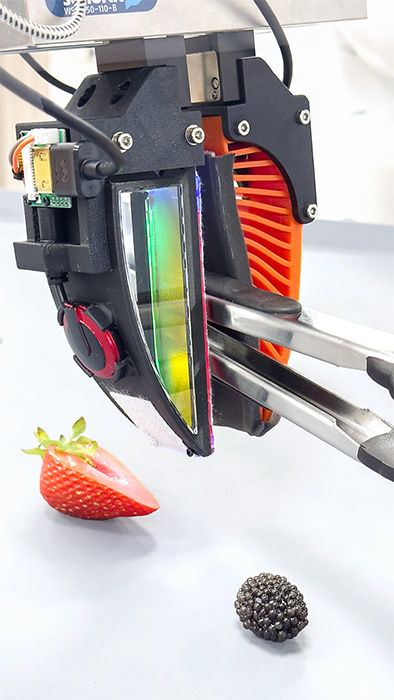
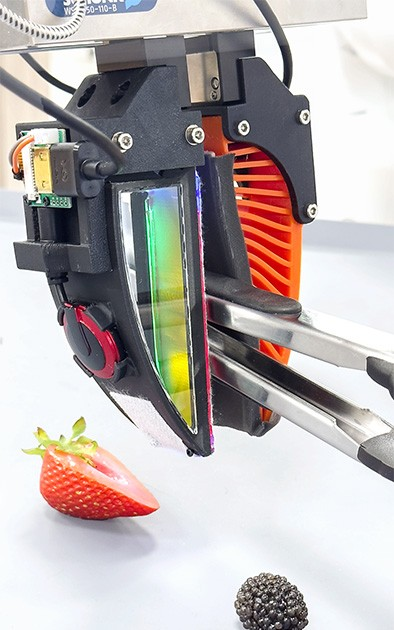
Add VLA Foundry to highlighted pubs; crop PolyTouch image
- VLA Foundry (TRI, arXiv 2604.19728) added to highlighted publications between LBM and
  PolyTouch, with logo image and acknowledged-contribution label on venue line
- PolyTouch card image cropped to 90% height (removed bottom 70px dead space)
- VLA Foundry SVG logo asset added

https://claude.ai/code/session_01WNVwqzFhoafRqZMiWvnBz6

diff --git a/includes/highlighted-publications.html b/includes/highlighted-publications.html
@@ -22,6 +22,24 @@
                 </tr>
                 <tr>
                     <td style="width:32%; vertical-align:top;">
+                        <div class="pub-media-container" style="background:#f7f8fa; display:flex; align-items:center; justify-content:center; padding:20px; min-height:160px;">
+                            <img src="images/vla_foundry_logo.svg" alt="VLA Foundry" style="width:100%; height:auto; object-fit:contain;">
+                        </div>
+                    </td>
+                    <td style="width:68%; padding-left:30px; vertical-align:top;">
+                        <a href="https://tri-ml.github.io/vla_foundry/" class="papertitle">VLA Foundry: A Unified Framework for Training Vision-Language-Action Models</a>
+                        <div class="authors">J. Mercat, S. Keh, K. Arora, I. Huang, P. Shah, H. Nishimura, S. Iwase, K. Liu et al. (TRI)</div>
+                        <div class="venue">arXiv preprint, 2026 <span style="font-size:0.8rem; font-weight:500; color:#888; margin-left:6px;">— acknowledged contribution</span></div>
+                        <div class="abstract-verbose">An open-source framework unifying LLM, VLM, and VLA training in a single codebase — from language pretraining through action-expert fine-tuning — enabling reproducible, collaborative development of robot foundation models with open weights, open data, and open evaluation.</div>
+                        <div class="pub-links-highlight">
+                            <a href="https://arxiv.org/abs/2604.19728">arXiv</a>
+                            <a href="https://tri-ml.github.io/vla_foundry/">Project</a>
+                            <a href="https://github.com/TRI-ML/vla_foundry">GitHub</a>
+                        </div>
+                    </td>
+                </tr>
+                <tr>
+                    <td style="width:32%; vertical-align:top;">
                         <div class="pub-media-container" onclick="openPubModal(this)" data-video="images/polytouch_demo.mp4" data-caption="PolyTouch: A Robust Multi-Modal Tactile Sensor">
                             <img src="images/polytouch_with_tool.jpg" alt="PolyTouch">
                             <video muted loop playsinline onmouseover="this.play()" onmouseout="this.pause(); this.currentTime=0;"><source src="images/polytouch_demo.mp4" type="video/mp4"></video>
